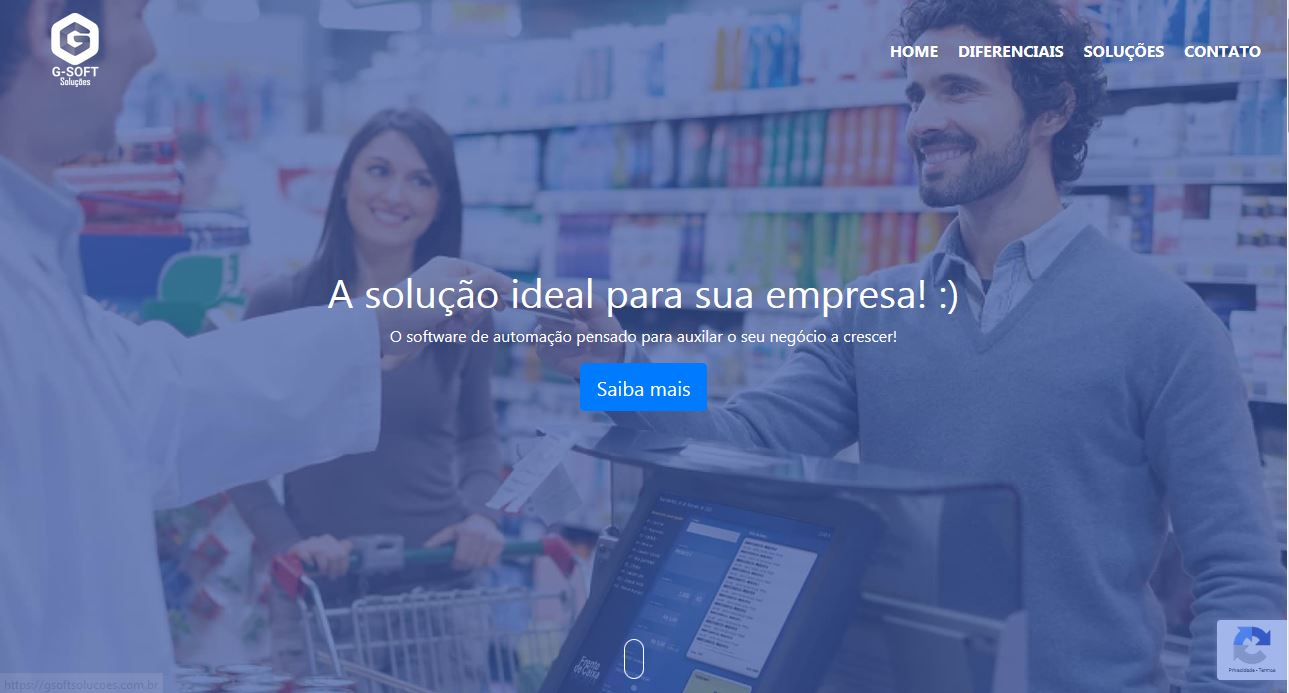
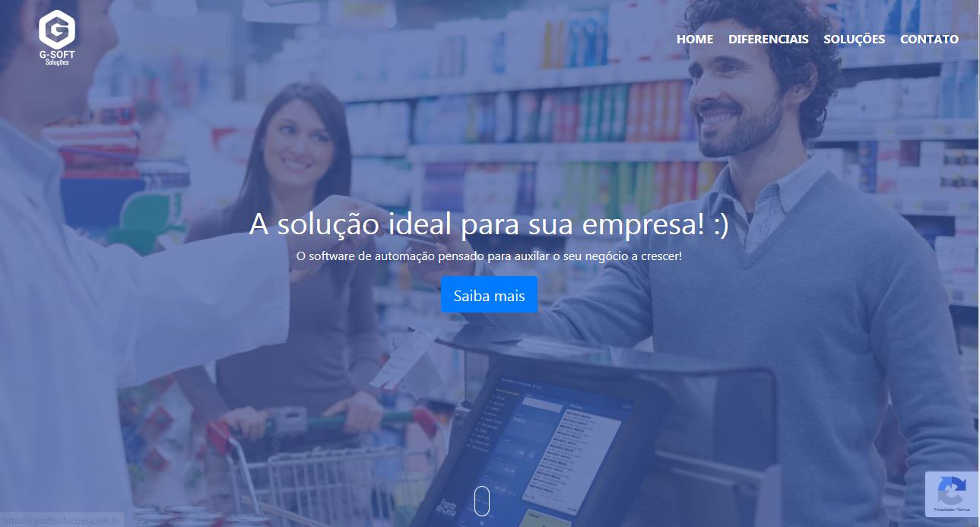
Melhoria na qualidade das imagens

diff --git a/index.html b/index.html
@@ -122,7 +122,7 @@
 				<h2 class="major">Portifólio</h2>
 				<div>
 					<h4 class="align-center"><a href="https://paranatour.com.br/" target="_blank">Paraná Moda Tour</a></h4>
-					<span class="image main hover-img"><img src="images/paranatour.png" alt="" /></span>
+					<span class="image main hover-img"><img src="images/portfolio/paranatour.JPG" alt="" /></span>
 					<label>Portal corporativo da empresa Paraná Tour</label>					
 					<label><b>Tecnologias: </b>PHP, MYSQL, JavaScript, CSS, HTML5, Bootstrap, WordPress</label>
 					<label><b>Disponível em: </b><a href="https://paranatour.com.br/" target="_blank">https://paranatour.com.br/</a></label>
